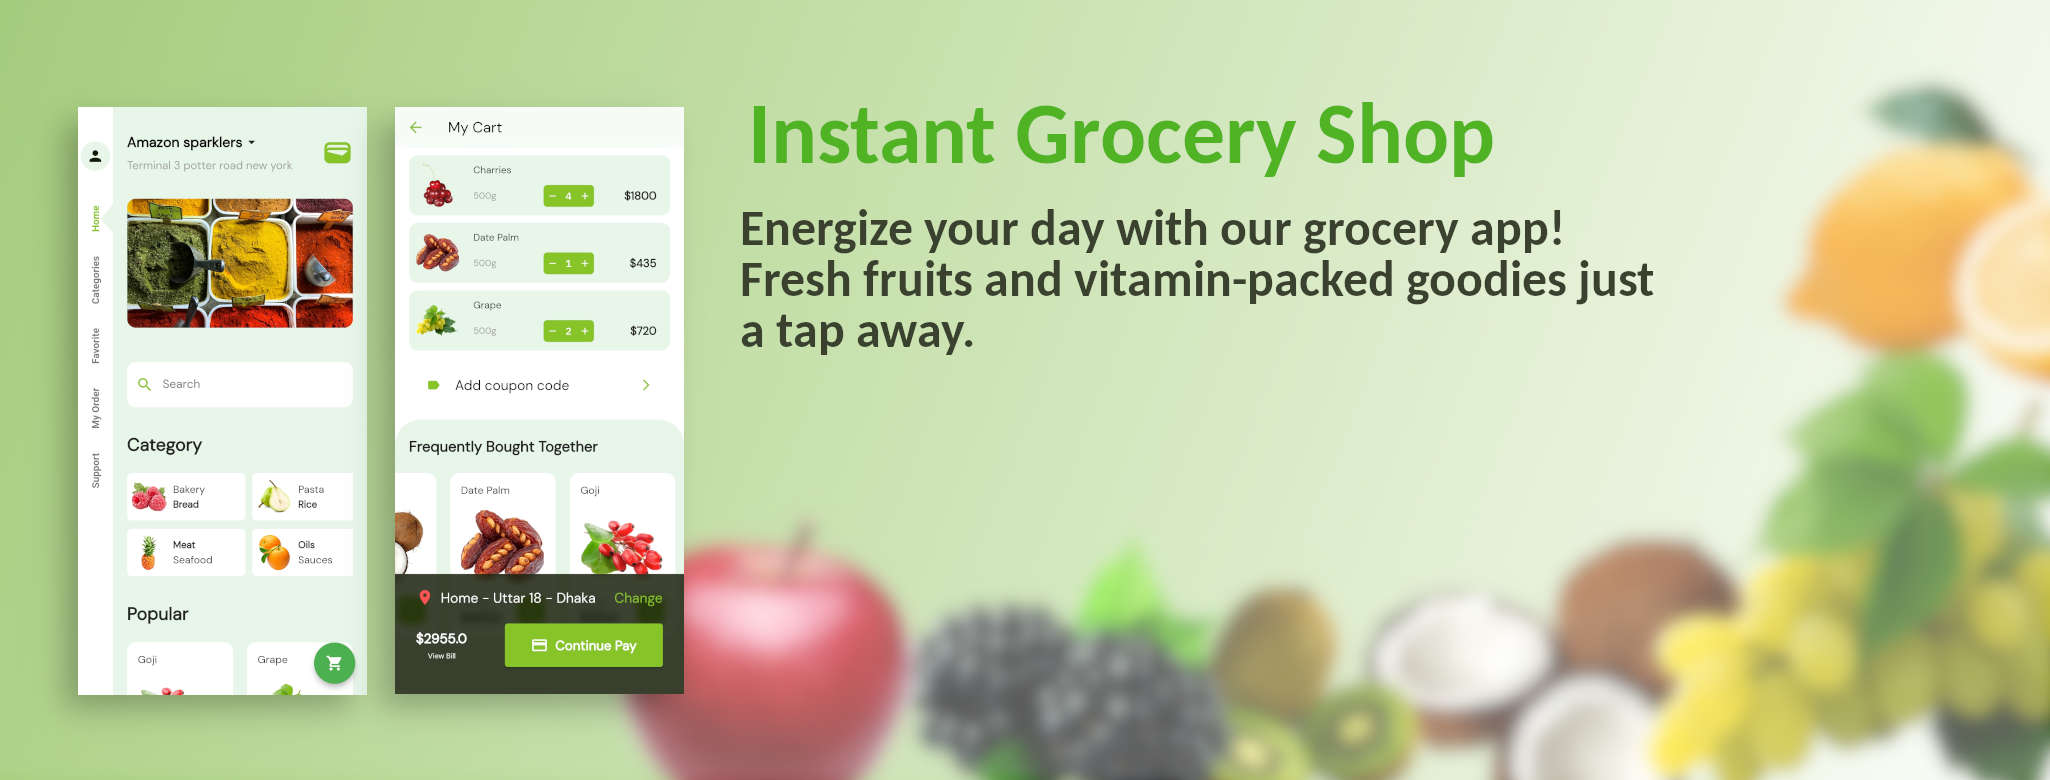
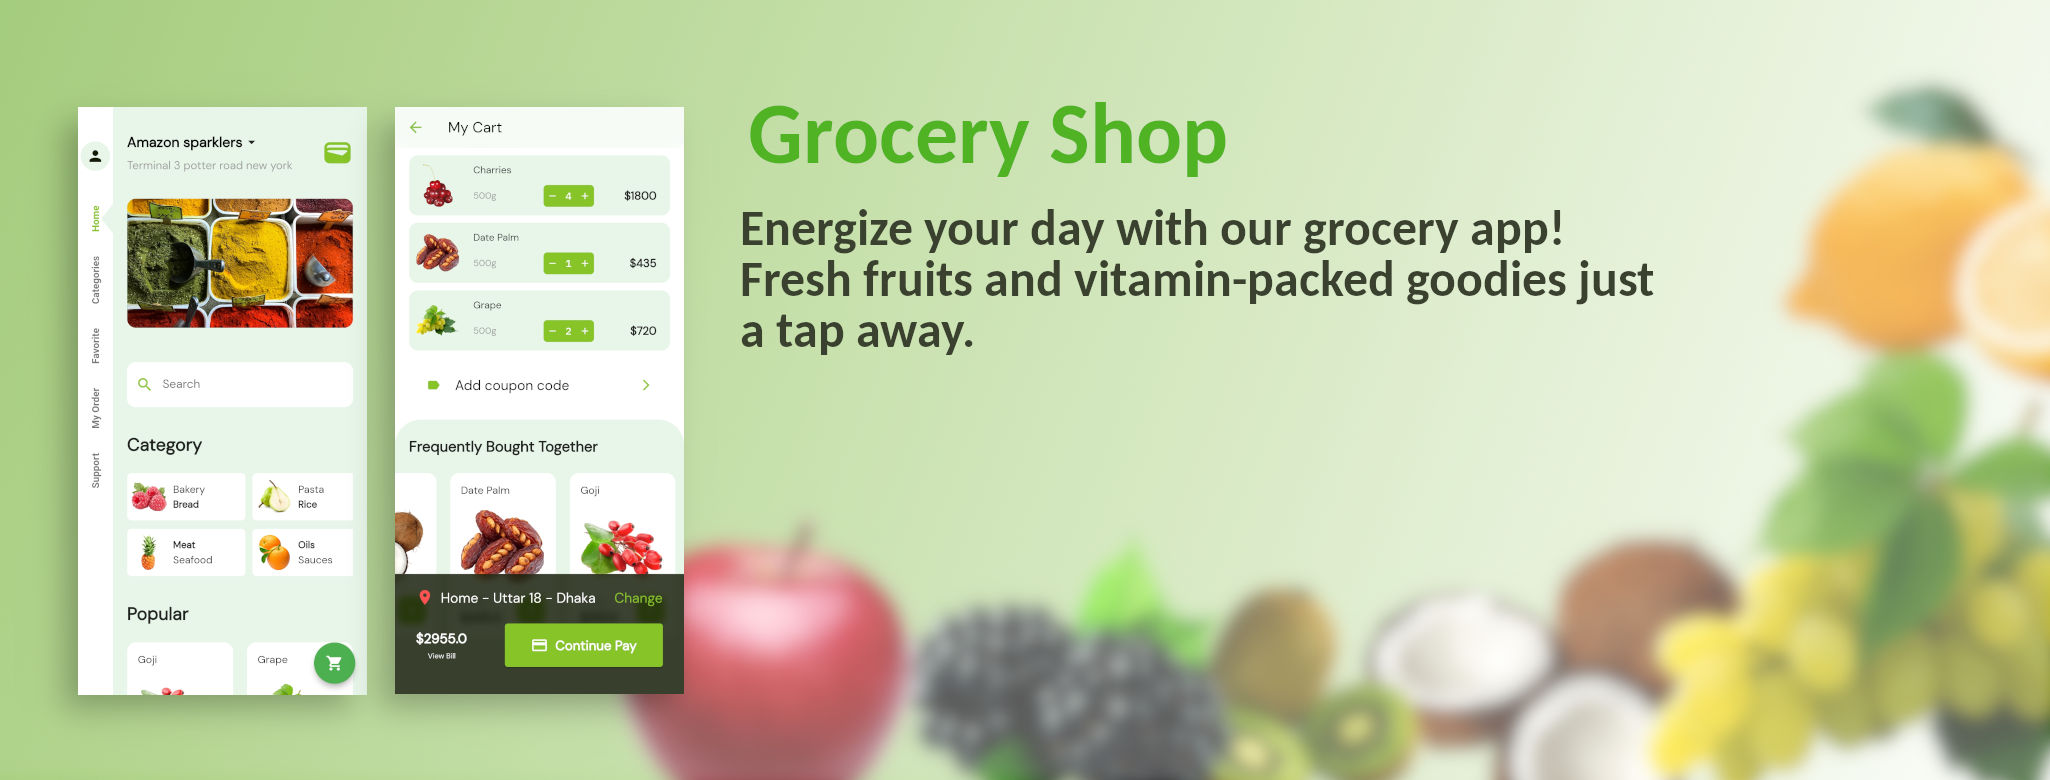
📝 readme updated

diff --git a/README.md b/README.md
@@ -1,4 +1,4 @@
-# Instant Grocery Shop
+# Grocery Shop
 **A simple shop app created using flutter. And uses RiverPod for state management.**
 
 ![Home & Products](/screenshot/shop-banner.jpg)
@@ -15,7 +15,6 @@ Introducing a dynamic and user-friendly shopping app crafted with Flutter and po
 |**Order Management:**|✅|Place orders for items in your cart. View your order history.|
 |**User Profile:**|✅|Create and manage your user profile.|
 |**Shop Management (Future):**|❌|Create your own shop. Add products to your shop.|
-
 
 ## Pattern and Language
 
